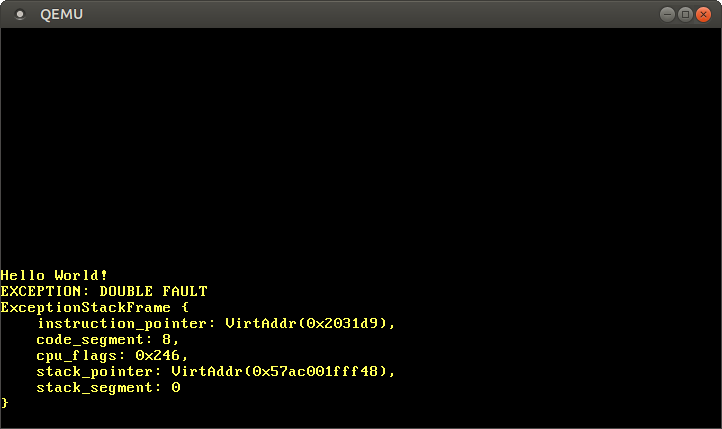
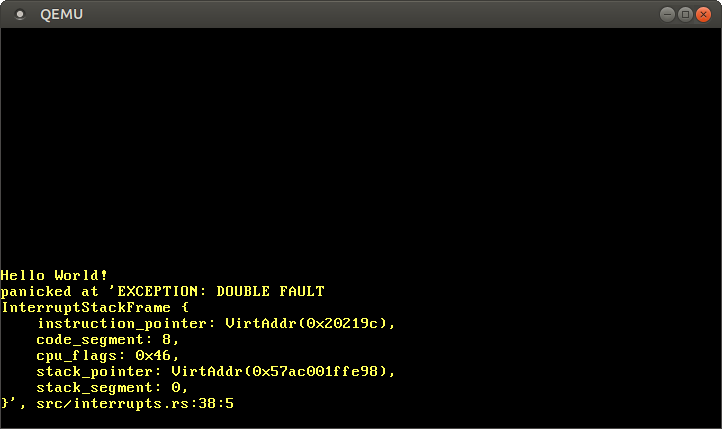
Panic in Double Fault handler instead of looping endlessly
The advantage of panicking is that it causes a QEMU exit in integration tests.

diff --git a/blog/content/second-edition/posts/07-double-faults/index.md b/blog/content/second-edition/posts/07-double-faults/index.md
@@ -78,8 +78,7 @@ lazy_static! {
 extern "x86-interrupt" fn double_fault_handler(
     stack_frame: &mut InterruptStackFrame, _error_code: u64)
 {
-    println!("EXCEPTION: DOUBLE FAULT\n{:#?}", stack_frame);
-    loop {}
+    panic!("EXCEPTION: DOUBLE FAULT\n{:#?}", stack_frame);
 }
 ```
 
